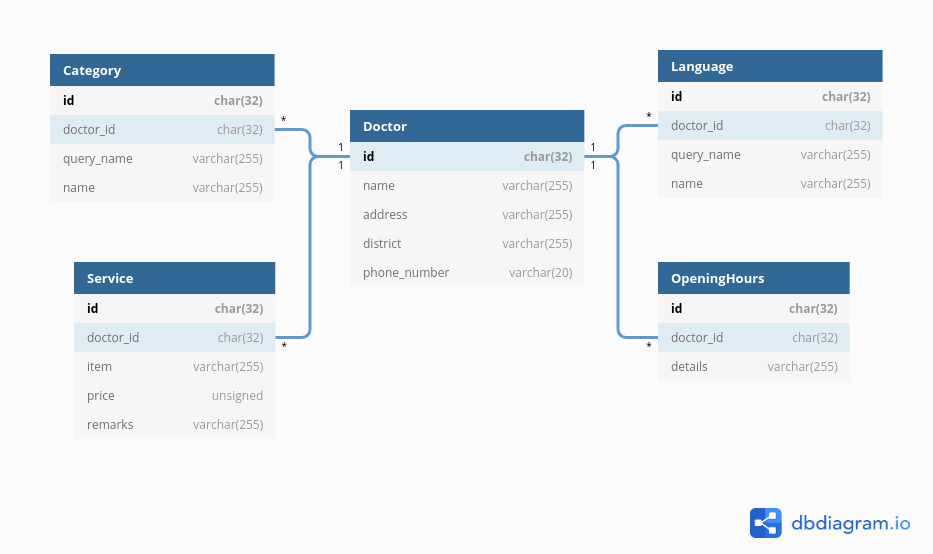
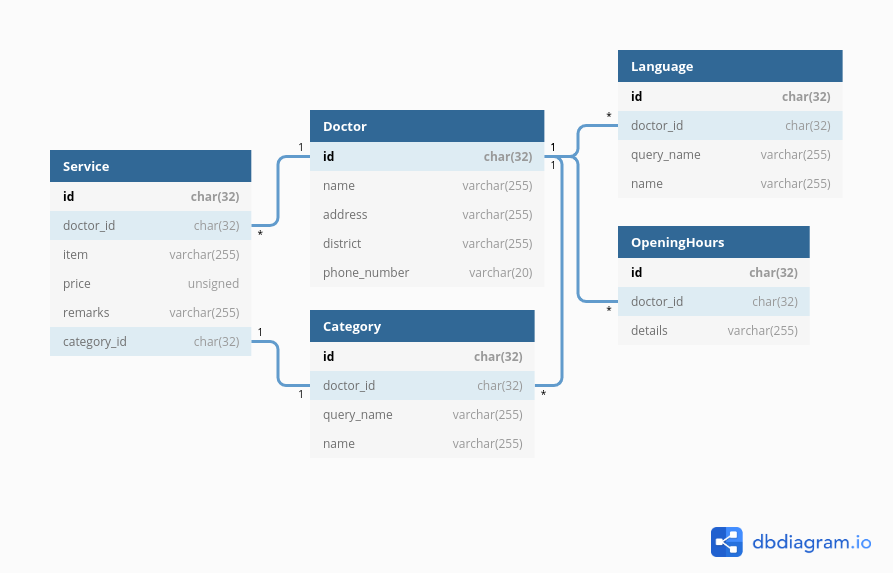
refactor: add 1-to-1 mapping to service and category

diff --git a/doctors/data.py b/doctors/data.py
@@ -58,14 +58,22 @@ def create():
     doctor_f.save()
     doctor_g.save()
 
-    Category(query_name="dentistry", name="牙科", doctor=doctor_a).save()
-    Category(query_name="pediatrics", name="兒科", doctor=doctor_b).save()
-    Category(query_name="chinese-medicine", name="中醫", doctor=doctor_c).save()
-    Category(query_name="bone-setting", name="跌打", doctor=doctor_c).save()
-    Category(query_name="acupuncture", name="針灸", doctor=doctor_c).save()
-    Category(query_name="psychiatric", name="精神科", doctor=doctor_d).save()
-    Category(query_name="ophthalmology", name="眼科", doctor=doctor_e).save()
-    Category(query_name="dermatology", name="皮膚科", doctor=doctor_f).save()
+    dentistry = Category(query_name="dentistry", name="牙科", doctor=doctor_a)
+    pediatrics = Category(query_name="pediatrics", name="兒科", doctor=doctor_b)
+    chinese_medicine = Category(query_name="chinese-medicine", name="中醫", doctor=doctor_c)
+    bone_setting = Category(query_name="bone-setting", name="跌打", doctor=doctor_c)
+    acupuncture = Category(query_name="acupuncture", name="針灸", doctor=doctor_c)
+    psychiatric = Category(query_name="psychiatric", name="精神科", doctor=doctor_d)
+    opthalmology = Category(query_name="ophthalmology", name="眼科", doctor=doctor_e)
+    dermatology = Category(query_name="dermatology", name="皮膚科", doctor=doctor_f)
+    dentistry.save()
+    pediatrics.save()
+    chinese_medicine.save()
+    bone_setting.save()
+    acupuncture.save()
+    psychiatric.save()
+    opthalmology.save()
+    dermatology.save()
 
     Language(query_name="cantonese", name="廣東話", doctor=doctor_a).save()
     Language(query_name="english", name="英語", doctor=doctor_a).save()
@@ -76,18 +84,18 @@ def create():
     Language(query_name="cantonese", name="廣東話", doctor=doctor_f).save()
     Language(query_name="english", name="英語", doctor=doctor_f).save()
 
-    Service(item="洗牙", price=100, remarks=None, doctor=doctor_a).save()
-    Service(item="診金", price=130, remarks=None, doctor=doctor_b).save()
-    Service(item="診金", price=120, remarks="包兩日基本中草藥", doctor=doctor_c).save()
-    Service(item="跌打診金", price=200, remarks="不包藥物", doctor=doctor_c).save()
-    Service(item="針灸診金", price=180, remarks="不包藥物", doctor=doctor_c).save()
-    Service(item="診金", price=350, remarks="包兩日基本藥物", doctor=doctor_d).save()
-    Service(item="診金", price=410, remarks=None, doctor=doctor_e).save()
-    Service(item="診金", price=280, remarks="不包藥物", doctor=doctor_f).save()
+    Service(item="洗牙", price=100, remarks=None, category=dentistry, doctor=doctor_a).save()
+    Service(item="診金", price=130, remarks=None, category=pediatrics, doctor=doctor_b).save()
+    Service(item="診金", price=120, remarks="包兩日基本中草藥", category=chinese_medicine, doctor=doctor_c).save()
+    Service(item="跌打診金", price=200, remarks="不包藥物", category=bone_setting, doctor=doctor_c).save()
+    Service(item="針灸診金", price=180, remarks="不包藥物", category=acupuncture, doctor=doctor_c).save()
+    Service(item="診金", price=350, remarks="包兩日基本藥物", category=psychiatric, doctor=doctor_d).save()
+    Service(item="診金", price=410, remarks=None, category=opthalmology, doctor=doctor_e).save()
+    Service(item="診金", price=280, remarks="不包藥物", category=dermatology, doctor=doctor_f).save()
     
     OpeningHours(doctor=doctor_a, details="星期一至五:0900-1800").save()
     OpeningHours(doctor=doctor_b, details="星期一至五:0900-1200,1500-1900;星期六:0900-1230").save()
-    OpeningHours(doctor=doctor_c, details="星期一至六:0900-1900;星期日:0900-1230").save()
+    OpeningHours(doctor=doctor_c, details="星期一至六:0900-1900;星期日:0900-1230").save()
     OpeningHours(doctor=doctor_d, details="星期一至五:0900-1700").save()
     OpeningHours(doctor=doctor_e, details="星期一至五:0900-2000;星期六:0900-1530").save()
     OpeningHours(doctor=doctor_f, details="星期一至五:0900-1830").save()
@@ -111,20 +119,23 @@ def create_test_data():
     doctor_test_a.save()
     doctor_test_b.save()
 
-    Category(query_name="category_a", name="cat_a", doctor=doctor_test_a).save()
-    Category(query_name="category_b", name="cat_b", doctor=doctor_test_a).save()
-    Category(query_name="category_c", name="cat_c", doctor=doctor_test_a).save()
-    Category(query_name="category_b", name="cat_b", doctor=doctor_test_b).save()
+    category_aa = Category(query_name="category_a", name="cat_a", doctor=doctor_test_a)
+    category_ab = Category(query_name="category_b", name="cat_b", doctor=doctor_test_a)
+    category_ac = Category(query_name="category_c", name="cat_c", doctor=doctor_test_a)
+    category_bb = Category(query_name="category_b", name="cat_b", doctor=doctor_test_b)
+    category_aa.save()
+    category_ab.save()
+    category_ac.save()
+    category_bb.save()
 
-    
     Language(query_name="language_a", name="lang_a", doctor=doctor_test_a).save()
     Language(query_name="language_b", name="lang_b", doctor=doctor_test_a).save()
     Language(query_name="language_a", name="lang_a", doctor=doctor_test_b).save()
 
-
-    Service(item="service_a", price=100, remarks=None, doctor=doctor_test_a).save()
-    Service(item="service_b", price=500, remarks=None, doctor=doctor_test_a).save()
-    Service(item="service_c", price=250, remarks=None, doctor=doctor_test_b).save()
+    Service(item="service_a", price=100, remarks=None, category=category_aa, doctor=doctor_test_a).save()
+    Service(item="service_b", price=500, remarks=None, category=category_ab, doctor=doctor_test_a).save()
+    Service(item="service_c", price=250, remarks=None, category=category_ac, doctor=doctor_test_a).save()
+    Service(item="service_b", price=250, remarks=None, category=category_bb, doctor=doctor_test_a).save()
     
     OpeningHours(doctor=doctor_test_a, details="details_a").save()
     OpeningHours(doctor=doctor_test_b, details="details_b").save()

diff --git a/doctors/migrations/0001_initial.py b/doctors/migrations/0001_initial.py
@@ -1,4 +1,4 @@
-# Generated by Django 3.1.3 on 2020-12-09 09:53
+# Generated by Django 3.1.4 on 2020-12-10 09:48
 
 from django.db import migrations, models
 import django.db.models.deletion
@@ -31,12 +31,22 @@ class Migration(migrations.Migration):
             ],
         ),
         migrations.CreateModel(
+            name='Category',
+            fields=[
+                ('id', models.UUIDField(default=uuid.uuid4, primary_key=True, serialize=False)),
+                ('query_name', models.CharField(db_index=True, default='', max_length=255)),
+                ('name', models.CharField(max_length=255)),
+                ('doctor', models.ForeignKey(on_delete=django.db.models.deletion.CASCADE, related_name='categories', to='doctors.doctor')),
+            ],
+        ),
+        migrations.CreateModel(
             name='Service',
             fields=[
                 ('id', models.UUIDField(default=uuid.uuid4, primary_key=True, serialize=False)),
                 ('item', models.CharField(max_length=255)),
                 ('price', models.PositiveIntegerField(db_index=True)),
                 ('remarks', models.CharField(max_length=255, null=True)),
+                ('category', models.OneToOneField(on_delete=django.db.models.deletion.DO_NOTHING, related_name='category', to='doctors.category')),
                 ('doctor', models.ForeignKey(on_delete=django.db.models.deletion.CASCADE, related_name='services', to='doctors.doctor')),
             ],
         ),
@@ -55,15 +65,6 @@ class Migration(migrations.Migration):
                 ('query_name', models.CharField(db_index=True, default='', max_length=255)),
                 ('name', models.CharField(max_length=255)),
                 ('doctor', models.ForeignKey(on_delete=django.db.models.deletion.CASCADE, related_name='languages', to='doctors.doctor')),
-            ],
-        ),
-        migrations.CreateModel(
-            name='Category',
-            fields=[
-                ('id', models.UUIDField(default=uuid.uuid4, primary_key=True, serialize=False)),
-                ('query_name', models.CharField(db_index=True, default='', max_length=255)),
-                ('name', models.CharField(max_length=255)),
-                ('doctor', models.ForeignKey(on_delete=django.db.models.deletion.CASCADE, related_name='categories', to='doctors.doctor')),
             ],
         ),
         migrations.RunPython(forwards_func, reverse_func)

diff --git a/doctors/models.py b/doctors/models.py
@@ -1,5 +1,12 @@
 from django.db import models
-from django.db.models import ForeignKey, UUIDField, CharField, PositiveIntegerField
+from django.db.models import (
+    ForeignKey, 
+    UUIDField, 
+    CharField, 
+    PositiveIntegerField,
+    OneToOneField
+)
+
 import uuid
 
 class Doctor(models.Model):
@@ -27,6 +34,7 @@ class Language(models.Model):
 class Service(models.Model):
     id = UUIDField(primary_key=True, default=uuid.uuid4)
     doctor = ForeignKey("Doctor", on_delete=models.CASCADE, related_name="services")
+    category = OneToOneField("Category", on_delete=models.DO_NOTHING, related_name="category")
     item = CharField(null=False, max_length=255)
     price = PositiveIntegerField(null=False, db_index=True)
     remarks = CharField(null=True, max_length=255)

diff --git a/doctors/query.py b/doctors/query.py
@@ -57,7 +57,7 @@ def get_doctors(
         if district:
             condition.add(Q(district=district.strip().lower()), Q.AND)
         if category:
-            condition.add(Q(categories__query_name=category.strip().lower()), Q.AND)
+            condition.add(Q(services__category__query_name=category.strip().lower()), Q.AND)
         if language:
             condition.add(Q(languages__query_name=language.strip().lower()), Q.AND)
         
